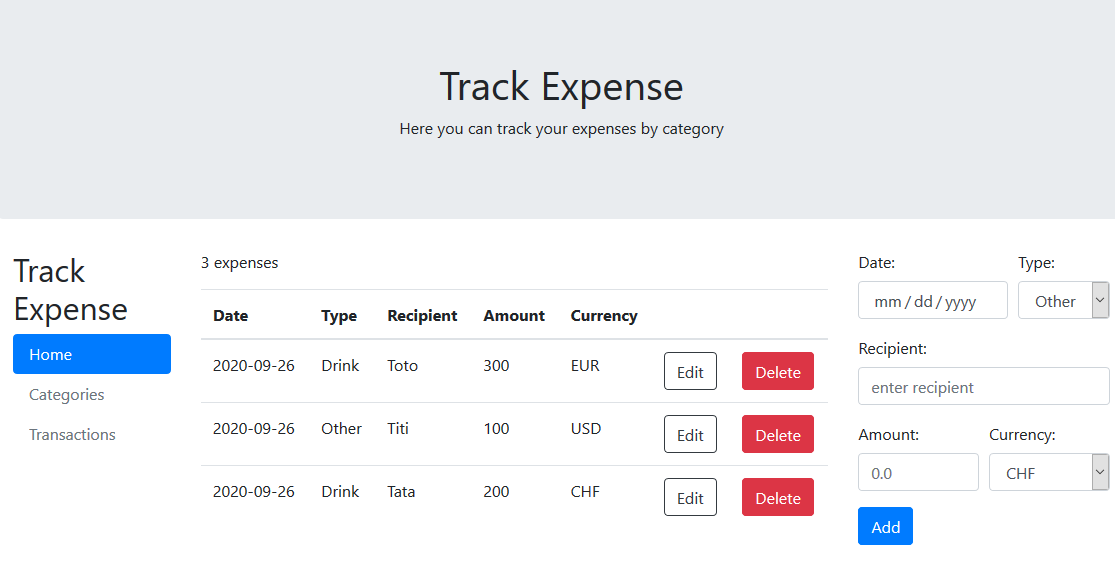
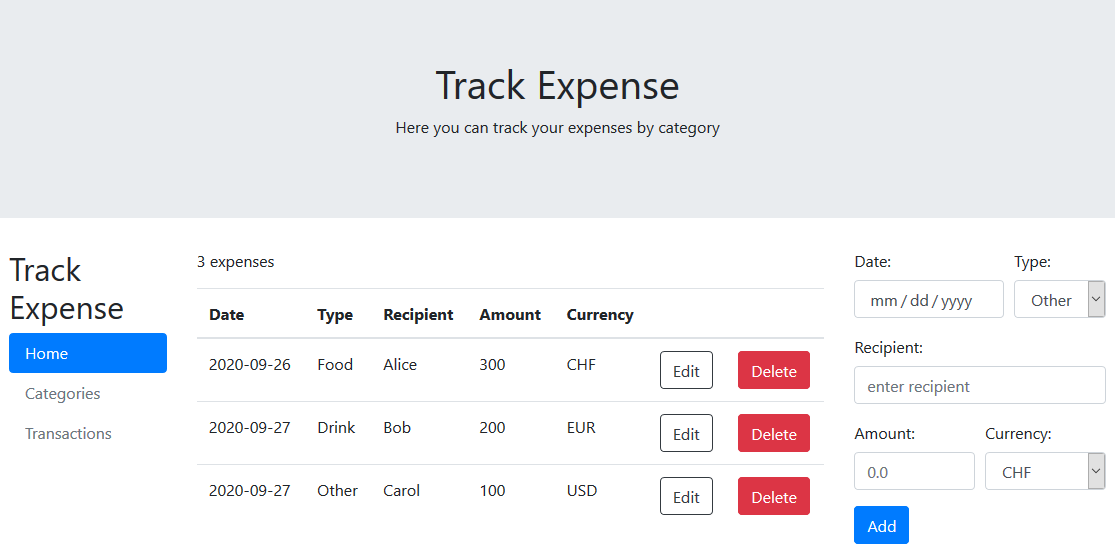
change db init

diff --git a/ExpenseApi/Migrations/20200927121147_InitialCreate.Designer.cs b/ExpenseApi/Migrations/20200927121147_InitialCreate.Designer.cs
@@ -10,7 +10,7 @@ using Microsoft.EntityFrameworkCore.Storage.ValueConversion;
 namespace ExpenseApi.Migrations
 {
     [DbContext(typeof(ExpenseContext))]
-    [Migration("20200926142702_InitialCreate")]
+    [Migration("20200927121147_InitialCreate")]
     partial class InitialCreate
     {
         protected override void BuildTargetModel(ModelBuilder modelBuilder)
@@ -53,19 +53,19 @@ namespace ExpenseApi.Migrations
                         new
                         {
                             Id = 1L,
-                            Amount = 200.0,
+                            Amount = 300.0,
                             Currency = "CHF",
-                            Recipient = "Stefan",
-                            TransactionDate = new DateTime(2020, 9, 25, 0, 0, 0, 0, DateTimeKind.Local),
+                            Recipient = "Alice",
+                            TransactionDate = new DateTime(2020, 9, 26, 0, 0, 0, 0, DateTimeKind.Local),
                             Type = 1
                         },
                         new
                         {
                             Id = 2L,
-                            Amount = 300.0,
+                            Amount = 200.0,
                             Currency = "EUR",
-                            Recipient = "Cezary",
-                            TransactionDate = new DateTime(2020, 9, 26, 0, 0, 0, 0, DateTimeKind.Local),
+                            Recipient = "Bob",
+                            TransactionDate = new DateTime(2020, 9, 27, 0, 0, 0, 0, DateTimeKind.Local),
                             Type = 2
                         },
                         new
@@ -73,8 +73,8 @@ namespace ExpenseApi.Migrations
                             Id = 3L,
                             Amount = 100.0,
                             Currency = "USD",
-                            Recipient = "Etienne",
-                            TransactionDate = new DateTime(2020, 9, 26, 0, 0, 0, 0, DateTimeKind.Local),
+                            Recipient = "Carol",
+                            TransactionDate = new DateTime(2020, 9, 27, 0, 0, 0, 0, DateTimeKind.Local),
                             Type = 0
                         });
                 });

diff --git a/ExpenseApi/Migrations/ExpenseContextModelSnapshot.cs b/ExpenseApi/Migrations/ExpenseContextModelSnapshot.cs
@@ -51,19 +51,19 @@ namespace ExpenseApi.Migrations
                         new
                         {
                             Id = 1L,
-                            Amount = 200.0,
+                            Amount = 300.0,
                             Currency = "CHF",
-                            Recipient = "Stefan",
-                            TransactionDate = new DateTime(2020, 9, 25, 0, 0, 0, 0, DateTimeKind.Local),
+                            Recipient = "Alice",
+                            TransactionDate = new DateTime(2020, 9, 26, 0, 0, 0, 0, DateTimeKind.Local),
                             Type = 1
                         },
                         new
                         {
                             Id = 2L,
-                            Amount = 300.0,
+                            Amount = 200.0,
                             Currency = "EUR",
-                            Recipient = "Cezary",
-                            TransactionDate = new DateTime(2020, 9, 26, 0, 0, 0, 0, DateTimeKind.Local),
+                            Recipient = "Bob",
+                            TransactionDate = new DateTime(2020, 9, 27, 0, 0, 0, 0, DateTimeKind.Local),
                             Type = 2
                         },
                         new
@@ -71,8 +71,8 @@ namespace ExpenseApi.Migrations
                             Id = 3L,
                             Amount = 100.0,
                             Currency = "USD",
-                            Recipient = "Etienne",
-                            TransactionDate = new DateTime(2020, 9, 26, 0, 0, 0, 0, DateTimeKind.Local),
+                            Recipient = "Carol",
+                            TransactionDate = new DateTime(2020, 9, 27, 0, 0, 0, 0, DateTimeKind.Local),
                             Type = 0
                         });
                 });

diff --git a/ExpenseApi/Migrations/20200927121147_InitialCreate.cs b/ExpenseApi/Migrations/20200927121147_InitialCreate.cs
@@ -27,17 +27,17 @@ namespace ExpenseApi.Migrations
             migrationBuilder.InsertData(
                 table: "Expenses",
                 columns: new[] { "Id", "Amount", "Currency", "Recipient", "TransactionDate", "Type" },
-                values: new object[] { 1L, 200.0, "CHF", "Stefan", new DateTime(2020, 9, 25, 0, 0, 0, 0, DateTimeKind.Local), 1 });
+                values: new object[] { 1L, 300.0, "CHF", "Alice", new DateTime(2020, 9, 26, 0, 0, 0, 0, DateTimeKind.Local), 1 });
 
             migrationBuilder.InsertData(
                 table: "Expenses",
                 columns: new[] { "Id", "Amount", "Currency", "Recipient", "TransactionDate", "Type" },
-                values: new object[] { 2L, 300.0, "EUR", "Cezary", new DateTime(2020, 9, 26, 0, 0, 0, 0, DateTimeKind.Local), 2 });
+                values: new object[] { 2L, 200.0, "EUR", "Bob", new DateTime(2020, 9, 27, 0, 0, 0, 0, DateTimeKind.Local), 2 });
 
             migrationBuilder.InsertData(
                 table: "Expenses",
                 columns: new[] { "Id", "Amount", "Currency", "Recipient", "TransactionDate", "Type" },
-                values: new object[] { 3L, 100.0, "USD", "Etienne", new DateTime(2020, 9, 26, 0, 0, 0, 0, DateTimeKind.Local), 0 });
+                values: new object[] { 3L, 100.0, "USD", "Carol", new DateTime(2020, 9, 27, 0, 0, 0, 0, DateTimeKind.Local), 0 });
         }
 
         protected override void Down(MigrationBuilder migrationBuilder)

diff --git a/ExpenseApi/Contexts/ExpenseContext.cs b/ExpenseApi/Contexts/ExpenseContext.cs
@@ -23,18 +23,18 @@ namespace ExpenseApi.Contexts
                     Id = 1,
                     TransactionDate = DateTime.Today.AddDays(-1),
                     Type = ExpenseType.Food,
-                    Amount = 200,
+                    Amount = 300,
                     Currency = "CHF",
-                    Recipient = "Stefan"
+                    Recipient = "Alice"
                 },
                 new Expense
                 {
                     Id = 2,
                     TransactionDate = DateTime.Today,
                     Type = ExpenseType.Drink,
-                    Amount = 300,
+                    Amount = 200,
                     Currency = "EUR",
-                    Recipient = "Cezary"
+                    Recipient = "Bob"
                 },
                 new Expense
                 {
@@ -43,7 +43,7 @@ namespace ExpenseApi.Contexts
                     Type = ExpenseType.Other,
                     Amount = 100,
                     Currency = "USD",
-                    Recipient = "Etienne"
+                    Recipient = "Carol"
                 }
             );
         }
